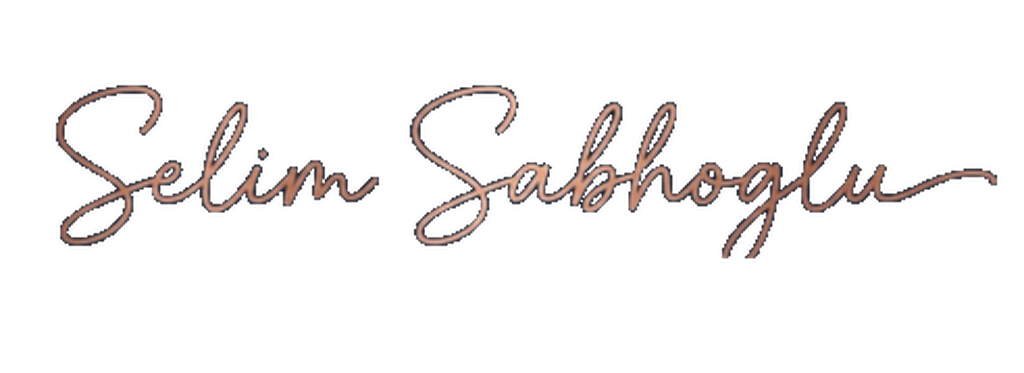
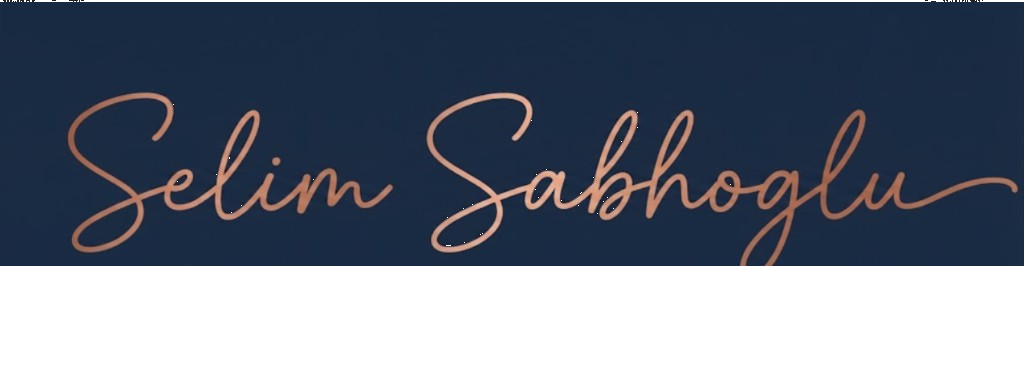
Use full-resolution signature source to preserve complete g loop.
Reprocess from the original reference PNG with a safer mask and 120px bottom padding so the descender is no longer clipped.

diff --git a/kontakt.html b/kontakt.html
@@ -162,7 +162,7 @@
                     <li>WhatsApp: <a href="schaden-melden.html">Schaden melden</a></li>
                     <li>Pohlweg 76, 33098 Paderborn</li>
                   </ul>
-                  <p class="guide-kontakt__signature"><img class="guide-kontakt__signature-img" src="assets/contact/selim-sabahoglu-signature.png?v=6" alt="Unterschrift Selim Sabahoglu" width="420" height="153" loading="lazy" decoding="async" /></p>
+                  <p class="guide-kontakt__signature"><img class="guide-kontakt__signature-img" src="assets/contact/selim-sabahoglu-signature.png?v=7" alt="Unterschrift Selim Sabahoglu" width="420" height="158" loading="lazy" decoding="async" /></p>
                   <a class="guide-kontakt__cta" href="mailto:sesa-svb@outlook.de">Kontakt aufnehmen →</a>
                 </div>
               </div>

diff --git a/build_site.py b/build_site.py
@@ -12,7 +12,7 @@ LOGO_MONOGRAM = "assets/logo-monogram.png?v=6"
 ABOUT_HERO = "assets/about/about-hero.jpg?v=1"
 ABOUT_PORTRAIT = "assets/portrait-placeholder.png?v=1"
 CONTACT_HERO = "assets/hero-inspection.png"
-SIGNATURE_IMAGE = "assets/contact/selim-sabahoglu-signature.png?v=6"
+SIGNATURE_IMAGE = "assets/contact/selim-sabahoglu-signature.png?v=7"
 KONTAKT_SIGNATURE_STYLE = """
     <style>
       main:has(.guide-kontakt) {
@@ -1271,7 +1271,7 @@ def kontakt_page_body() -> str:
                     <li>WhatsApp: <a href="schaden-melden.html">Schaden melden</a></li>
                     <li>{ADDRESS}</li>
                   </ul>
-                  <p class="guide-kontakt__signature"><img class="guide-kontakt__signature-img" src="{SIGNATURE_IMAGE}" alt="Unterschrift {OWNER}" width="420" height="153" loading="lazy" decoding="async" /></p>
+                  <p class="guide-kontakt__signature"><img class="guide-kontakt__signature-img" src="{SIGNATURE_IMAGE}" alt="Unterschrift {OWNER}" width="420" height="158" loading="lazy" decoding="async" /></p>
                   <a class="guide-kontakt__cta" href="mailto:{EMAIL}">Kontakt aufnehmen →</a>
                 </div>
               </div>
